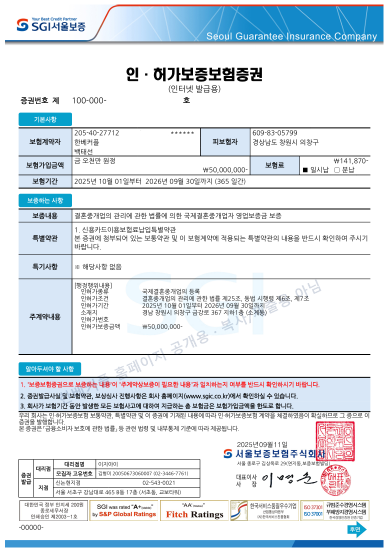
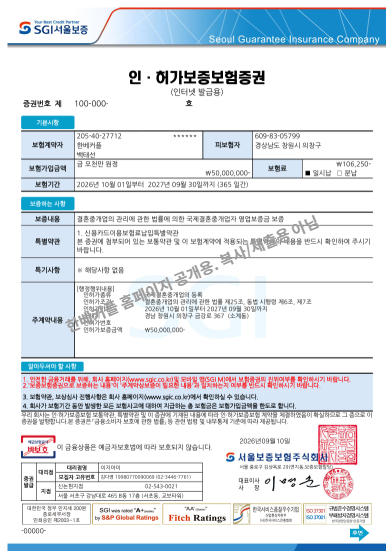
ins

Changed region(s): [[0.0, 0.1236, 0.9897, 1.0], [0.0, 0.0, 0.9897, 0.0927]]

diff --git a/about.html b/about.html
@@ -103,7 +103,7 @@
         <div class="credential-document">
           <img src="assets/images/credentials/guarantee-insurance-public.png" alt="한베커플 SGI서울보증 인허가보증보험증권" loading="lazy" />
         </div>
-        <figcaption><span class="credential-badge">핵심 증빙</span><h3>인허가보증보험증권</h3><p>보험가입금액 5,000만원<br>보험기간 2025.10.01 ~ 2026.09.30</p><small>갱신 시 최신 증권으로 교체됩니다.</small></figcaption>
+        <figcaption><span class="credential-badge">핵심 증빙</span><h3>인허가보증보험증권</h3><p>보험가입금액 5,000만원<br>보험기간 2026.10.01 ~ 2027.09.30</p><small>갱신 시 최신 증권으로 교체됩니다.</small></figcaption>
       </figure>
     </div>
 
